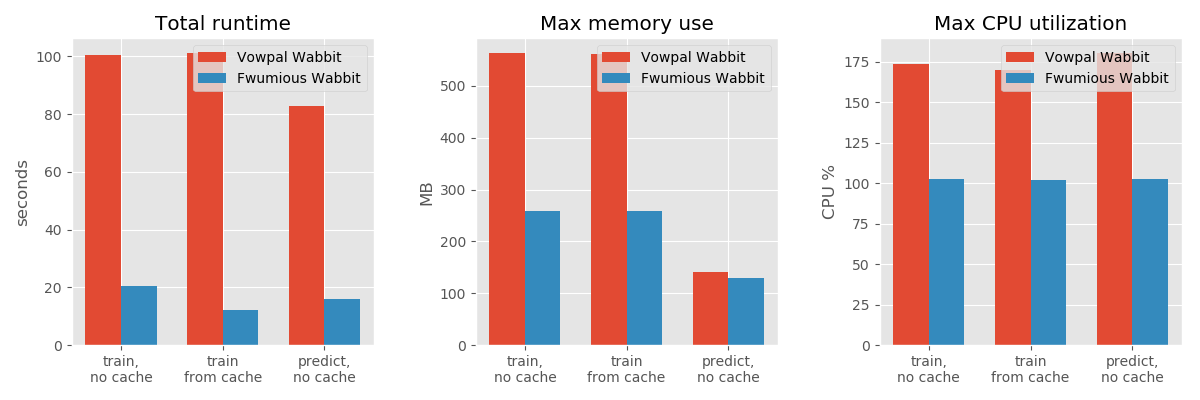
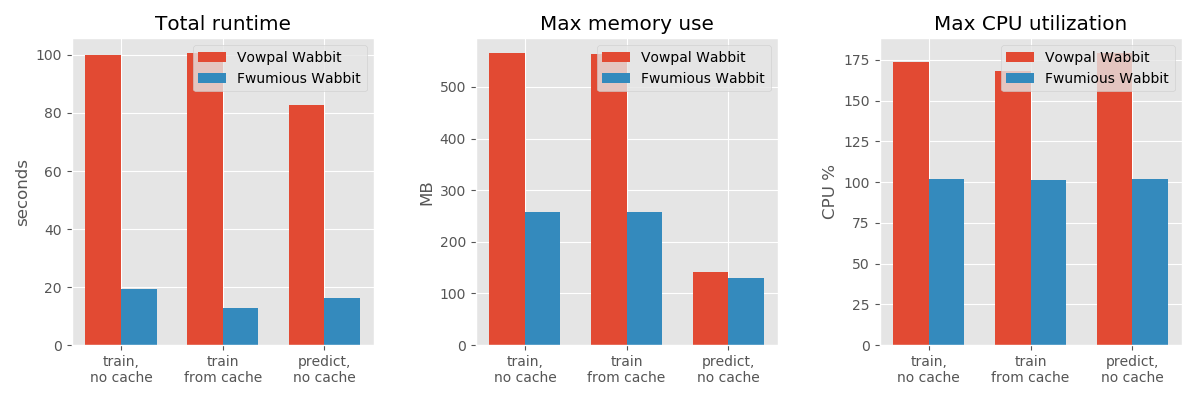
bumping version & benchmark info

diff --git a/src/version.rs b/src/version.rs
@@ -1,1 +1,1 @@
-pub static LATEST: &str = "1.4";
+pub static LATEST: &str = "1.5";

diff --git a/BENCHMARK.md b/BENCHMARK.md
@@ -14,21 +14,12 @@ here are the results for 3 runs for each scenario, taking mean values:
 ![benchmark results](benchmark_results.png)
 Scenario|Runtime (seconds)|Memory (MB)|CPU %
 ----|----:|----:|----:
-<<<<<<< HEAD
-vw train, no cache|100.43 | 564 | 173.67
-fw train, no cache|20.46 | 258 | 102.40
-vw train, using cache|101.15 | 562 | 169.63
-fw train, using cache|12.14 | 259 | 101.63
-vw predict, no cache|82.72 | 141 | 180.30
-fw predict, no cache|15.85 | 130 | 102.70
-=======
-vw train, no cache|100.05 | 563 | 173.73
-fw train, no cache|19.42 | 258 | 102.23
-vw train, using cache|100.63 | 566 | 170.13
-fw train, using cache|11.82 | 259 | 101.70
-vw predict, no cache|83.34 | 141 | 179.63
-fw predict, no cache|16.54 | 130 | 102.10
->>>>>>> main
+vw train, no cache|100.10 | 566 | 173.63
+fw train, no cache|19.50 | 258 | 101.60
+vw train, using cache|100.70 | 564 | 168.40
+fw train, using cache|12.70 | 259 | 101.20
+vw predict, no cache|82.73 | 141 | 179.23
+fw predict, no cache|16.30 | 130 | 101.87
 
 ### Model equivalence
 loss values for the test set:
@@ -91,11 +82,7 @@ or, if you just want the numbers with less dependencies run:
 ### versions:
 ```
 vowpal wabbit 8.9.2 (git commit: 884420267)
-<<<<<<< HEAD
-fwumious wabbit 0.1 (git commit: b89fc4f)
-=======
-fwumious wabbit 1.4 (git commit: 1cb7abe)
->>>>>>> main
+fwumious wabbit 1.5 (git commit: 8ea1c01)
 ```
 
 ### CPU Info
